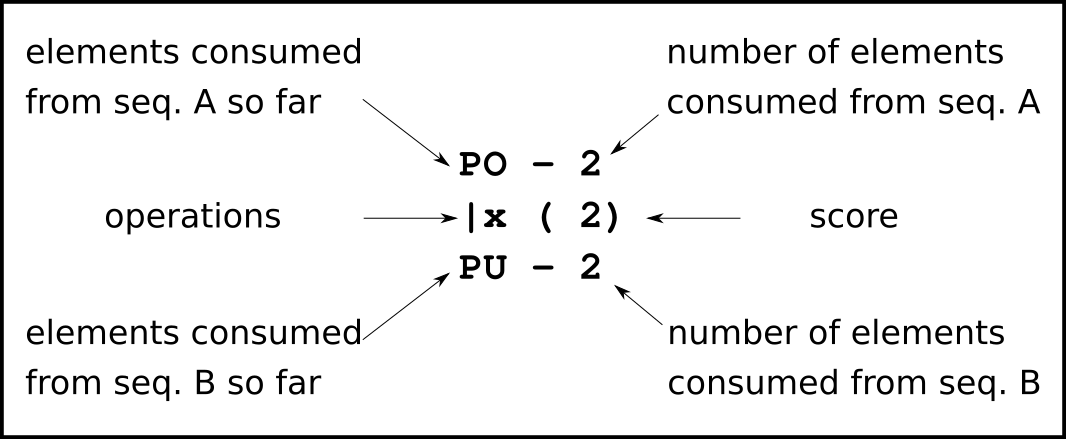
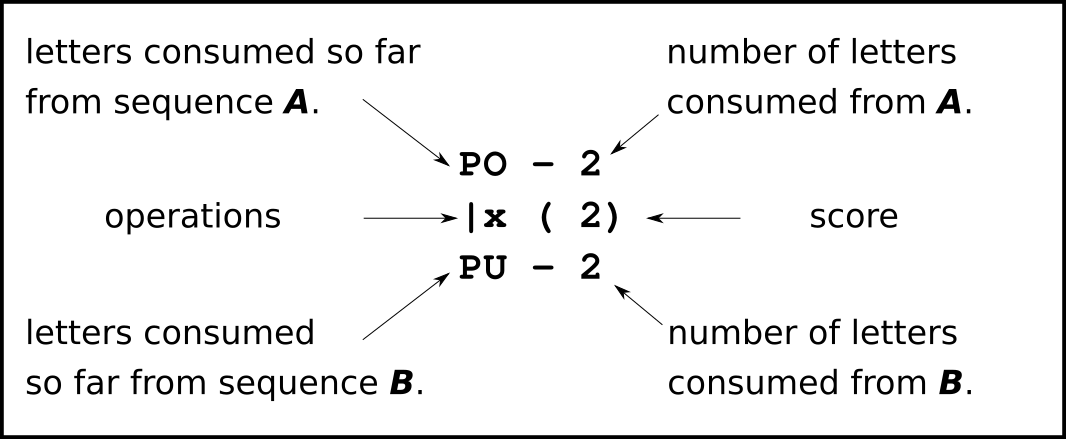
WIP

diff --git a/_posts/2023-12-08-sequence_alignments_3.md b/_posts/2023-12-08-sequence_alignments_3.md
@@ -1,5 +1,5 @@
 ---
-title: How to Compare Text with Sequence Alignment Algorithms - Part 3
+title: How to Compare Text with Sequence Alignment Algorithms - The First Algorithms - Part 3
 layout: post
 author: jaclx5
 
@@ -84,13 +84,13 @@ greedy2:
         - slide:
             image: /images/sequence_alignments/greedy2/step_12.png
             caption: Finally, The unassuming alignment (ABC--/ABXAB)<br />
-                     ends up as the best alignment to explore.
+                     ends up as the best alignment to expand.
         - slide:
             image: /images/sequence_alignments/greedy2/step_13.png
             caption: Which leads to a (premature) solution.
 ---
 
-_In the [previous post](/sequence_alignments_2) I formally defined sequence alignments and described a way to compute a score for how "good" an alignment is. This score allows us to compare alignments between two sequences against each other which is key to help us find the best alignment of all, the optimal one. In this post I will start exploring algorithms to automatically find this optimal alignment between two sequences._
+_In this post, with the help of the formal definitions and the scoring scheme presented in the [previous post](/sequence_alignments_2), I will start exploring some algorithms to automatically find this optimal alignment between two sequences._
 
 <script src="https://cdn.mathjax.org/mathjax/latest/MathJax.js?config=TeX-AMS-MML_HTMLorMML" type="text/javascript"></script>
 
@@ -98,10 +98,10 @@ _In the [previous post](/sequence_alignments_2) I formally defined sequence alig
 
 # Alignment Algorithms
 
-If you have been following the previous posts of this series you have learned quite bit about alignments. Lets recap a few things we learned so far:
-- An alignment between two sequences $$A$$ and $$B$$ is a sequence of operations over $$A$$ that turn it into $$B$$;
-- A huge number of distinct alignments exist between $$A$$ and $$B$$;
-- It is possible to compute a score of how "good" each of those alignments is;
+If you have been following the previous posts of this series you have learned quite a bit about alignments. Let's recap a few things we learned so far:
+- An alignment between two sequences $$A$$ and $$B$$ is a sequence of operations over $$A$$ that turns it into $$B$$;
+- There are a huge number of possible distinct alignments between $$A$$ and $$B$$;
+- It is possible to compute a __score__ of how "good" each of those alignments is;
 - And, finally, we call the alignment with the highest score the __optimal alignment__.
 
 Now, our next challenge will be to __design an algorithm that finds the optimal alignment between any two given sequences__.
@@ -116,7 +116,7 @@ An alignment algorithm is a set of mechanical rules applied, sequentially, step 
     <img src="/images/sequence_alignments/notation_1.png" height="250"/>
 </div>
 
-Each individual tree is snapshot of a given step of the algorithm. Each node in the tree corresponds to a partial alignment being explored. The tree depicts all the partial alignments explored up to that step.
+Each tree is a snapshot of a given step of the algorithm. The nodes in the tree correspond to partial alignments being evaluated by the algorithm. Each tree depicts all the nodes (partial alignments) evaluated up to that step, either expandd (with children) or not.
 
 Each node in the tree contains the following extra information:
 
@@ -124,41 +124,46 @@ Each node in the tree contains the following extra information:
     <img src="/images/sequence_alignments/notation_2.png" height="250"/>
 </div>
 
-Note that the following two nodes correspond to two distinct partial alignments, with distinct sequences of operations:
+We define $$Aln_{i, j}$$ as the set of all alignments that consumed $$i$$ letters from sequence $$A$$ and $$j$$ letters from sequence $$B$$.
+
+Note, as an example, the two following nodes, corresponding to two distinct partial alignments, with distinct sequences of operations:
 
 <div align="center">
     <img src="/images/sequence_alignments/notation_3.png" height="100"/>
 </div>
 
-Both, however, consumed $$3$$ elements of sequence $$A$$ and $$2$$ elements of sequence $$A$$. Hence, we can say that both alignments belong to the $$Aln_{3, 2}$$ set.
+Both of them, although distinct, consumed $$3$$ letters from sequence $$A$$ and $$2$$ letters from sequence $$B$$. Hence, we can say that both alignments belong to the $$Aln_{3, 2}$$ set.
 
-Generalizing, the set $$Aln_{i, j}$$ contains all alignments that consume $$i$$ elements from sequence $$A$$ and $$j$$ elements from sequence $$B$$.
-
-Finally, certain special nodes will be shown with particular colors. the __<span style="color:#ff0000;">red</span>__ node represents the best "non expanded" alignment observed so far, the __<span style="color:#00ff00;">green</span>__ node represents the expanded node that originated the current state, and the __<span style="color:#0000ff;">blue</span>__ one represents the solution whenever we find it. Note that the a solution requires that all elements of both sequences have been "consumed", thus, the partial alignments are only intermediate steps until a solution is reached.
+Finally, certain special nodes will be depicted with colored boxes. The __<span style="color:#ff0000;">red</span>__ node represents the best "non expanded" alignment evaluated so far, the __<span style="color:#00ff00;">green</span>__ node represents the expanded node that originated the current state, and the __<span style="color:#0000ff;">blue</span>__ one represents the solution alignment whenever we find it. Note that the a solution requires that all letters of both sequences have been "consumed", thus, all partial alignments are only intermediate steps of an algorithm until a solution is reached.
 
 Now, the algorithms.
 
 ## Greedy Approach - A False Start
 
-Our first attempt to build an alignment algorithm will be a straightforward, although _naïve_, way to search for the optimal alignment. This algorithm systematically explores all possible alignment operations in each step of the way, "greedily" choosing the next search direction according to the best score found so far.
+Our first attempt to build an alignment algorithm will be a straightforward, although _naïve_, way to search for the optimal alignment. This algorithm systematically expands all possible alignment operations in each step of the way, "greedily" choosing the next search direction according to the best score found so far.
 
-The images bellow illustrate this __greedy__ algorithm applied to our [already familiar sequences](/sequence_alignments_2#external1): <code class="python">POINTER</code> and <code class="python">PUNTER</code>, respectively our sequences $$A$$ and $$B$$.
+The images bellow illustrate this __greedy algorithm__ applied to our [already familiar sequences](/sequence_alignments_2#external1):
+
+{% highlight markdown %}
+A = POINTER
+B = PUNTER
+{% endhighlight %}
 
 Click on the left and right arrows, or in the bottom circles to navigate the steps of the algorithm.
 
 {% include slideshow.html slideshow=page.greedy1 %}
 
-In the first step, the algorithm starts with an _empty_ alignment ($$\text{empty} \in Aln_{0,0}$$) with an score of 0 (zero), and "expands" it by applying the three possible operations:
+In the first step, the algorithm starts with an _empty_ alignment ($$\text{empty} \in Aln_{0,0}$$) with a score of zero, and "expands" it by applying the three possible operations:
 
-- an __INSERT__ in $$A_1$$, obtaining the partial alignment $$\text{(P/-)} \in Aln_{1,0}$$ with a score of -2.
-- a __MATCH__ between $$A_1$$ and $$B_1$$, obtaining $$\text{(P/P)} \in Aln_{1,1}$$ with a score of 3.
-- a __DELETION__ of $$A_i$$, obtaining $$\text{(-/P)} \in Aln_{0,1}$$ with a score of -2.
+- __INSERT__ in $$A_1$$, obtaining the partial alignment $$\text{(P/-)} \in Aln_{1,0}$$ with a score of -2.
+- __MATCH__ between $$A_1$$ and $$B_1$$, obtaining $$\text{(P/P)} \in Aln_{1,1}$$ with a score of 3.
+- __DELETION__ of $$A_i$$, obtaining $$\text{(-/P)} \in Aln_{0,1}$$ with a score of -2.
 
-Next, it chooses the best node found so far (thus the __greedy__ in the algorithm's name) and repeats the same expansion process. The algorithm keeps "expanding" the best node, until it "exhausts" both sequences.
+Next, it chooses the best node found so far (thus the __greedy__ in the algorithm's name) and repeats the same expansion process. The algorithm keeps "expanding" the best node, until it finds a solution (i.e. an alignment that consumes all letters of both sequences).
 
-As it progresses, the algorithm recursively builds a ternary tree that contains in its leaves many the possible alignments.
+As it progresses, the algorithm recursively builds a ternary tree that contains in its leaves many possible alignments.
 
-Notice that, due to the accumulation of gaps and mismatches, in some steps (e.g., steps 4 and 7), the next best alignment to be explored doesn't always result from the one previously expanded. In these cases the algorithm "backtracks" to explore other branches of the expansion tree.
+Note that, due to the accumulation of gaps and mismatches, in some steps (e.g. steps 4 and 7), the next best alignment to be expanded (red box) isn't always a child of previously expanded one (green box). In these cases the algorithm "backtracks" to expand other branches of the tree.
 
 Although the algorithm seems to be, at a first glance, pretty effective, it has a major flaw. __As it usually occurs with greedy algorithms, it often fails to find the optimal alignment__.
 
@@ -166,7 +171,7 @@ Take, for example, this other pair of sequences, <code class="python">ABC</code>
 
 {% include slideshow.html slideshow=page.greedy2 %}
 
-As we can see in this example, the greediness of the algorithm, and the fact that it stops as soon as it founds a possible solution, leads to the following sub-optimal alignment ($$(\text{ABC---/ABXABC}) \in Aln_{3,6}$$) as a solution:
+As we can see in this example, the greediness of the algorithm, and the fact that it stops as soon as it founds the first solution, leads to the following solution $$(\text{ABC---/ABXABC}) \in Aln_{3,6}$$ __which is not the optimal one__:
 
 {% highlight markdown %}
     ABC---
@@ -186,7 +191,7 @@ How do I know this is not the optimal alignment? Because, with a little manual e
 
 $$(3 \times 3) + (0 \times -1) + (3 \times -2) = 3$$
 
-Of course it is impossible, for all but the shortest alignments, to manually verify if a specific solution is the optimal one or not. The point I am making here is that, with this simple counter-example, I can prove that the greedy approach some times fails.
+Of course that, for all but the shortest alignments, it is impossible to manually verify if a specific solution is the optimal one or not. The point I am making here is that, with this simple counter-example, I can prove that the greedy approach some times fails.
 
 At least in the sequence alignment world, greed doesn't pay of.
 
@@ -212,7 +217,7 @@ If you search patiently, you will spot the optimal alignment, mentioned above, i
 
 # Next Steps
 
-At his point you may ask: "_Why are we wasting time with flawed and impractical algorithms?_".
+At his point you may ask: "_Why are we wasting time with flawed and impractical algorithms?_"
 
 That's a good question and I have a couple of good answers:
  
@@ -220,7 +225,7 @@ First, a simple algorithm, even if it is inefficient and impractical, is a good 
 
 Second, and most important, understanding how a basic algorithm works allows us to gain some familiarity with the problem, which will make it much easier to understand the really useful algorithms that we will discuss later.
 
-Fortunately, we still can find the optimal alignment without having to explore all possible alignments. The solution is a technique call Dynamic Programming and that is what we will see in the next post.
+Fortunately, __we still can find the optimal alignment without having to expand all possible alignments__. The solution is inspired in a technique called __Dynamic Programming__ and that will be the main subject of my next post.
 
 <a name="code"/>
 
@@ -230,6 +235,6 @@ You can reproduce all the images from this post using the [companion notebook](h
 
 In the repository you will find the package [dalt](https://github.com/jaclx5/jaclx5.github.io/blob/master/notebooks/sequence_alignment/alignment_tree/dalt) which allows you to try your own algorithms and see the resulting trees.
 
-__It's important to note that the algorithms in this package ARE NOT efficient and ARE NOT intended to be used in any practical way. They were developed uniquely to illustrate the concepts in this post and to generate graphical representations of alignments for pedagogic purposes.__
+__It is important to note that the algorithms in this package ARE NOT efficient and ARE NOT intended to be used in any practical way. They were developed uniquely to illustrate the concepts in this post and to generate graphical representations of alignments for pedagogic purposes.__
 
 If you have questions or ideas feel free to share them in the comments box. 
